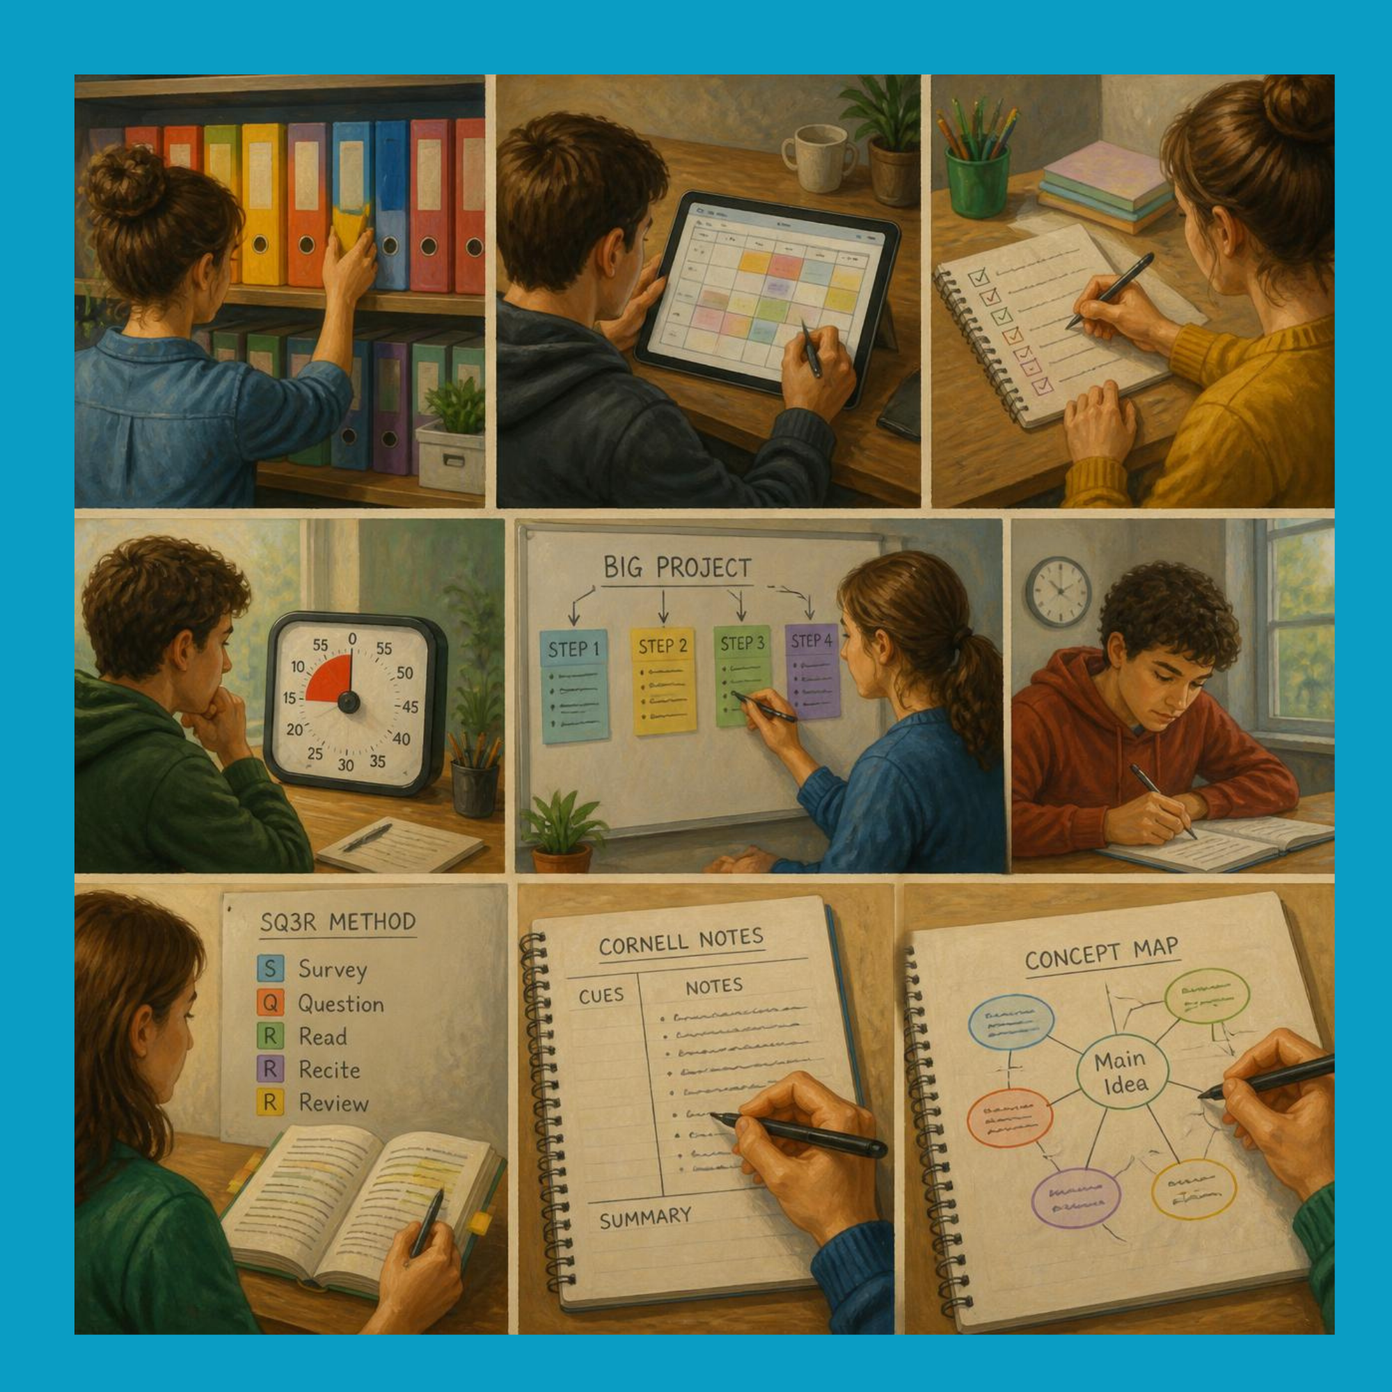
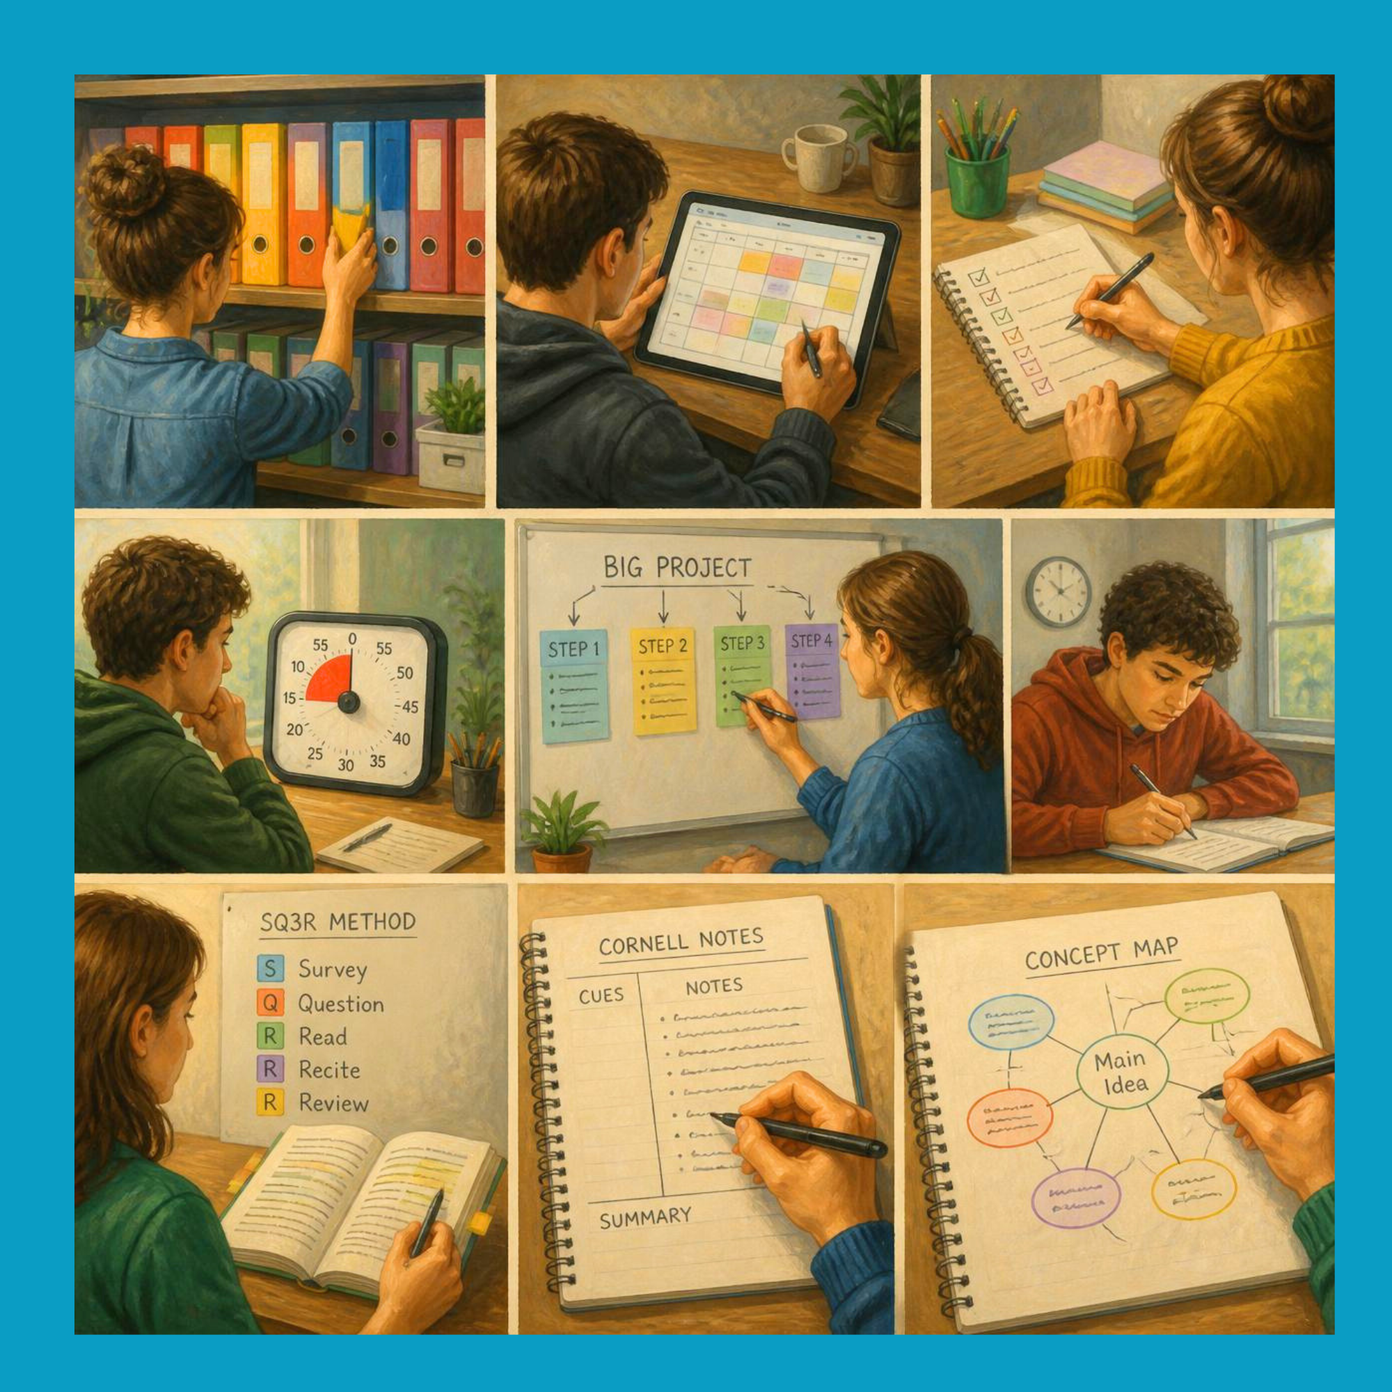
pushing dyslexia support

diff --git a/src/components/articles/dyslexia/dyslexia-support/SupportHome.tsx b/src/components/articles/dyslexia/dyslexia-support/SupportHome.tsx
@@ -1,5 +1,6 @@
 import React from 'react';
 import { Tabs, TabsContent, TabsList, TabsTrigger } from '../../../ui/tabs';
+import { ImageWithFallback } from '../../../figma/ImageWithFallback';
 
 interface SupportHomeProps {
   setCurrentArticle?: (article: string) => void;
@@ -34,7 +35,7 @@ export function SupportHome({ setCurrentArticle }: SupportHomeProps) {
 
       <Tabs defaultValue="home" className="w-full">
 
- <TabsList className="grid w-full grid-cols-1 sm:grid-cols-2 md:grid-cols-3 lg:grid-cols-4 gap-3 mb-12 bg-transparent h-auto p-0">
+        <TabsList className="grid w-full grid-cols-1 sm:grid-cols-2 md:grid-cols-3 lg:grid-cols-4 gap-3 mb-12 bg-transparent h-auto p-0">
           <TabsTrigger 
             value="interventions" 
             onClick={() => setCurrentArticle?.('dyslexia-support-interventions')} 
@@ -87,24 +88,93 @@ export function SupportHome({ setCurrentArticle }: SupportHomeProps) {
         </TabsList>
 
         <TabsContent value="home" className="animate-fadeIn">
-          <h3 className="text-xl font-bold mb-4 text-[#0c264d]">Creating a Supportive Environment</h3>
-          <ul className="list-disc ml-5 space-y-2 mb-6 text-slate-700">
-            <li>Designated quiet homework space.</li>
-            <li>Consistent routine and schedule.<sup className="text-green-600 font-bold ml-0.5">1</sup></li>
-          </ul>
+          
+          {/* Centered Intro Section */}
+          <div className="clear-both">
+            <h2 className="text-[#0c264d] font-bold mb-4 text-2xl clear-both text-center">
+              Home Support Strategies
+            </h2>
+            <ImageWithFallback 
+              src="/images/dyslexia/dyslexia-support-home-TAB-intro.png"
+              alt="Home support strategies for dyslexia"
+              className="w-64 h-auto rounded-md border border-gray-300 block mx-auto mb-6 shadow-sm"
+            />
+            <p className="mb-8 text-slate-700 leading-relaxed text-center max-w-3xl mx-auto">
+              Supporting an individual with dyslexia extends far beyond the classroom. Creating a nurturing, structured, and literacy-rich home environment is crucial for building their confidence and reinforcing the skills they learn at school.
+            </p>
+          </div>
 
-          <h3 className="text-xl font-bold mb-4 text-[#0c264d]">Reading at Home</h3>
-          <ul className="list-disc ml-5 space-y-2 mb-6 text-slate-700">
-            <li>Read aloud together.<sup className="text-green-600 font-bold ml-0.5">2</sup></li>
-            <li>High-interest materials.<sup className="text-green-600 font-bold ml-0.5">3</sup></li>
-            <li>Audiobooks count!<sup className="text-green-600 font-bold ml-0.5">4</sup></li>
-          </ul>
+          {/* Supportive Environment (Float Right) */}
+          <h3 className="text-2xl font-bold mt-2 mb-4 text-[#0c264d] border-b border-gray-200 pb-2 clear-both">Creating a Supportive Environment</h3>
+          
+          <ImageWithFallback 
+            src="/images/dyslexia/dyslexia-support-home-TAB-environment.png"
+            alt="Creating a structured homework space"
+            className="w-56 h-auto rounded-md border border-gray-300 shadow-sm float-right ml-6 mb-4"
+          />
 
-          <h3 className="text-xl font-bold mb-4 text-[#0c264d]">School Communication</h3>
-          <ul className="list-disc ml-5 space-y-2 mb-8 text-slate-700">
-            <li>Regular teacher check-ins.<sup className="text-green-600 font-bold ml-0.5">5</sup></li>
-            <li>Prepare for IEP/504 meetings.<sup className="text-green-600 font-bold ml-0.5">6</sup></li>
-          </ul>
+          <div className="space-y-4 mb-10">
+            <div className="bg-gray-50 p-4 rounded-lg border border-gray-200 flex flex-col md:flex-row md:items-center gap-2 md:gap-6">
+              <div className="font-bold text-[#0A9DC4] md:w-1/4">Dedicated Workspace</div>
+              <div className="text-sm text-slate-700 md:w-3/4">Designate a specific, quiet, and well-lit area for homework that is free from high-traffic household distractions.</div>
+            </div>
+            
+            <div className="bg-gray-50 p-4 rounded-lg border border-gray-200 flex flex-col md:flex-row md:items-center gap-2 md:gap-6">
+              <div className="font-bold text-[#0A9DC4] md:w-1/4">Consistent Routines</div>
+              <div className="text-sm text-slate-700 md:w-3/4">Establish predictable daily schedules. Knowing exactly when homework time begins and ends helps reduce anxiety and task avoidance.</div>
+            </div>
+          </div>
+
+          {/* Reading at Home (Big Full Pic) */}
+          <h3 className="text-2xl font-bold mt-8 mb-6 text-[#0c264d] border-b border-gray-200 pb-2 clear-both">Reading at Home</h3>
+          
+          <ImageWithFallback 
+            src="/images/dyslexia/dyslexia-support-home-TAB-reading.png"
+            alt="Strategies for reading at home"
+            className="block mx-auto w-full max-w-2xl mb-8 rounded-lg shadow-sm border border-slate-200 bg-white"
+          />
+
+          <div className="grid grid-cols-1 sm:grid-cols-3 gap-6 mb-10">
+            <div className="bg-white p-5 rounded-xl border-t-4 border-[#2abcd4] shadow-sm flex flex-col">
+              <h4 className="font-bold text-[#0c264d] mb-2 text-center">Read Aloud Together</h4>
+              <p className="text-sm text-slate-700 flex-grow">Modeling fluent, expressive reading helps build vocabulary and comprehension without the cognitive strain of decoding.</p>
+            </div>
+            <div className="bg-white p-5 rounded-xl border-t-4 border-[#2abcd4] shadow-sm flex flex-col">
+              <h4 className="font-bold text-[#0c264d] mb-2 text-center">High-Interest Materials</h4>
+              <p className="text-sm text-slate-700 flex-grow">Allow reading choices based on passion—comic books, graphic novels, and magazines are all valid and engaging materials.</p>
+            </div>
+            <div className="bg-white p-5 rounded-xl border-t-4 border-[#2abcd4] shadow-sm flex flex-col">
+              <h4 className="font-bold text-[#0c264d] mb-2 text-center">Audiobooks Count</h4>
+              <p className="text-sm text-slate-700 flex-grow">Listening to audiobooks provides access to complex narratives and advanced vocabulary that may be above their independent reading level.</p>
+            </div>
+          </div>
+
+          {/* School Communication (Cards) */}
+          <h3 className="text-2xl font-bold mt-8 mb-6 text-[#0c264d] border-b border-gray-200 pb-2 clear-both">School Communication</h3>
+          
+          <div className="grid grid-cols-1 md:grid-cols-2 gap-6 mb-10">
+            {/* Check-ins Card */}
+            <div className="bg-gray-300 border-t-4 border-[#0A9DC4] rounded-xl p-6 shadow-md flex flex-col">
+              <h4 className="font-bold text-[#0c264d] text-xl mb-3 text-center">Teacher Check-ins</h4>
+              <div className="bg-white p-4 rounded-lg shadow-sm text-sm text-slate-700 flex-grow">
+                Maintain open, regular communication with teachers. Share what is working at home and ask for specific updates on classroom progress to ensure strategies are aligned.
+              </div>
+            </div>
+
+            {/* IEP/504 Card */}
+            <div className="bg-gray-300 border-t-4 border-[#2abcd4] rounded-xl p-6 shadow-md flex flex-col">
+              <h4 className="font-bold text-[#0c264d] text-xl mb-3 text-center">IEP & 504 Advocacy</h4>
+              <div className="bg-white p-4 rounded-lg shadow-sm text-sm text-slate-700 flex-grow">
+                Prepare thoroughly for school meetings. Keep an organized binder of all evaluations, work samples, and formal communications to effectively advocate for necessary accommodations.
+              </div>
+            </div>
+          </div>
+                  
+                    <ImageWithFallback 
+                      src="/images/dyslexia/dyslexia-support-home-TAB-school.png"
+                      alt="Timeline and intensity of dyslexia intervention"
+                      className="block mx-auto w-full max-w-2xl mb-8 rounded-lg shadow-sm border border-slate-200 bg-white"
+                    />
 
           <div className="flex justify-end my-8 clear-both">
             <button 
@@ -122,17 +192,13 @@ export function SupportHome({ setCurrentArticle }: SupportHomeProps) {
           <div className="bg-white bg-opacity-50 p-6 rounded-lg shadow-inner">
             <h3 className="font-bold font-spartan mb-5 text-xl text-[#0c264d]">References</h3>
             
+            {/* Empty Cited Studies Section left as a structural placeholder per standard */}
             <div className="mb-6">
               <h4 className="font-bold text-sm uppercase tracking-wider text-green-700 mb-3 border-b border-green-700 border-opacity-10 pb-1">
                 Cited Studies & Statistics
               </h4>
-              <div className="text-xs space-y-3 text-slate-600 leading-relaxed" style={{ textIndent: 0 }}>
-                <p>1. Cooper, H., et al. (2006). "Does homework improve academic achievement?" <em>Review of Educational Research</em>, 76(1), 1-62.</p>
-                <p>2. Bus, A. G., et al. (1995). "Joint book reading makes for success in learning to read." <em>Review of Educational Research</em>, 65(1), 1-21.</p>
-                <p>3. Guthrie, J. T., & Humenick, N. M. (2004). "Motivating students to read." In <em>The voice of evidence in reading research</em>. Paul H. Brookes.</p>
-                <p>4. Aronson, A. G. (2010). "New perspectives on reading intervention through audiobook technology." <em>Reading Psychology</em>, 31(4), 315-338.</p>
-                <p>5. Epstein, J. L., & Van Voorhis, F. L. (2001). "More than minutes." <em>Educational Psychologist</em>, 36(3), 181-193.</p>
-                <p>6. Garriott, P. P., et al. (2000). "Teachers as parents, parents as children." <em>Preventing School Failure</em>, 45(1), 37-43.</p>
+              <div className="text-xs space-y-3 text-slate-600 leading-relaxed italic" style={{ textIndent: 0 }}>
+                <p>No explicit statistical claims or empirical studies directly cited in the text of this section.</p>
               </div>
             </div>
 
@@ -141,7 +207,13 @@ export function SupportHome({ setCurrentArticle }: SupportHomeProps) {
                 Background Sources
               </h4>
               <ul className="list-none text-xs space-y-3 text-slate-600 leading-relaxed p-0 m-0" style={{ textIndent: 0 }}>
-                <li>Epstein, J. L. (2001). <em>School, family, and community partnerships</em>. Westview Press.</li>
+                <li>Aronson, A. G. (2010). "New perspectives on reading intervention through audiobook technology." <em>Reading Psychology</em>. https://doi.org/10.1080/02702711.2010.505166</li>
+                <li>Bus, A. G., van Ijzendoorn, M. H., & Pellegrini, A. D. (1995). "Joint book reading makes for success in learning to read: A meta-analysis on intergenerational transmission of literacy." <em>Review of Educational Research</em>. https://doi.org/10.3102/00346543065001001</li>
+                <li>Cooper, H., Robinson, J. C., & Patall, E. A. (2006). "Does homework improve academic achievement? A synthesis of research, 1987–2003." <em>Review of Educational Research</em>. https://doi.org/10.3102/00346543076001001</li>
+                <li>Epstein, J. L. (2001). <em>School, family, and community partnerships: Preparing educators and improving schools</em>. Westview Press.</li>
+                <li>Epstein, J. L., & Van Voorhis, F. L. (2001). "More than minutes: Teachers' roles in designing homework." <em>Educational Psychologist</em>. https://doi.org/10.1207/S15326985EP3603_4</li>
+                <li>Garriott, P. P., Wandry, D., & Snyder, L. (2000). "Teachers as parents, parents as children: What's wrong with this picture?" <em>Preventing School Failure</em>. https://doi.org/10.1080/10459880009599806</li>
+                <li>Guthrie, J. T., & Humenick, N. M. (2004). "Motivating students to read: Evidence for classroom practices that increase reading motivation and achievement." In <em>The voice of evidence in reading research</em>. Paul H. Brookes.</li>
               </ul>
             </div>
           </div>

diff --git a/src/components/articles/dyslexia/dyslexia-support/SupportExecutive.tsx b/src/components/articles/dyslexia/dyslexia-support/SupportExecutive.tsx
@@ -85,45 +85,70 @@ export function SupportExecutive({ setCurrentArticle }: SupportExecutiveProps) {
             Home Support
           </TabsTrigger>
         </TabsList>
-                  <h3 className="text-2xl font-bold mt-8 mb-4 text-[#0c264d] border-b border-gray-200 pb-2 clear-both text-center">How to Support Executive Dysfunction</h3>
-                  
-                  <ImageWithFallback 
-                    src="/images/dyslexia/dyslexia-support-execdys-TAB-tools.png"
-                    alt="Timeline and intensity of dyslexia intervention"
-                    className="block mx-auto w-full max-w-2xl mb-8 rounded-lg shadow-sm border border-slate-200 bg-white"
-                  />
-        <TabsContent value="executive" className="animate-fadeIn">
-          <p className="mb-6 text-slate-700 leading-relaxed">
-            Many individuals with dyslexia also experience executive function challenges:<sup className="text-green-600 font-bold ml-0.5">1</sup>
+        <TabsContent value="executive">
+    <h3 className="text-2xl font-bold mt-8 mb-6 text-[#0c264d] border-b border-gray-200 pb-2 clear-both text-center">
+            How to Support Executive Dysfunction
+          </h3>
+          
+          <ImageWithFallback 
+            src="/images/dyslexia/dyslexia-support-execdys-TAB-tools.png"
+            alt="Executive dysfunction support tools"
+            className="block mx-auto w-full max-w-2xl mb-10 rounded-lg shadow-sm border border-slate-200 bg-white"
+          />
+
+          <p className="mb-8 text-slate-700 leading-relaxed text-center max-w-3xl mx-auto">
+            Many individuals with dyslexia also experience co-occurring executive function challenges. Supporting these foundational skills is just as vital as providing direct reading intervention.
           </p>
 
-          <div className="grid grid-cols-1 md:grid-cols-3 gap-6 mb-8">
-            <div className="bg-gray-50 p-4 rounded-lg border">
-              <h4 className="font-bold text-[#0c264d] mb-2">Organization</h4>
-              <ul className="text-sm list-disc ml-5 space-y-1 text-slate-700">
-                <li>Color-coded folders/binders.<sup className="text-green-600 font-bold ml-0.5">2</sup></li>
-                <li>Digital planners.</li>
-                <li>Checklist systems.<sup className="text-green-600 font-bold ml-0.5">3</sup></li>
-              </ul>
+          <div className="grid grid-cols-1 md:grid-cols-3 gap-6 mb-10">
+            {/* Organization Card */}
+            <div className="bg-gray-300 border-t-4 border-[#2abcd4] rounded-xl p-6 shadow-sm flex flex-col">
+              <h4 className="font-bold text-[#0c264d] text-xl mb-4 text-center">Organization</h4>
+              <div className="flex flex-col gap-3 flex-grow">
+                <div className="bg-gray-50 p-3 rounded-lg border border-gray-100 text-sm text-slate-700">
+                  <strong className="text-[#0A9DC4]">Color-Coding:</strong> Use color-coded folders and binders to quickly categorize subjects and reduce physical clutter.
+                </div>
+                <div className="bg-gray-50 p-3 rounded-lg border border-gray-100 text-sm text-slate-700">
+                  <strong className="text-[#0A9DC4]">Digital Planners:</strong> Centralize assignments and due dates using digital tools like Google Calendar or Notion.
+                </div>
+                <div className="bg-gray-50 p-3 rounded-lg border border-gray-100 text-sm text-slate-700">
+                  <strong className="text-[#0A9DC4]">Checklist Systems:</strong> Provide explicit, step-by-step visual breakdowns for routine daily tasks.
+                </div>
+              </div>
             </div>
-            <div className="bg-gray-50 p-4 rounded-lg border">
-              <h4 className="font-bold text-[#0c264d] mb-2">Time Management</h4>
-              <ul className="text-sm list-disc ml-5 space-y-1 text-slate-700">
-                <li>Visual timers.<sup className="text-green-600 font-bold ml-0.5">4</sup></li>
-                <li>Chunking large projects.</li>
-                <li>Extra time allowance.</li>
-              </ul>
+
+            {/* Time Management Card */}
+            <div className="bg-gray-300 border-t-4 border-[#2abcd4] rounded-xl p-6 shadow-sm flex flex-col">
+              <h4 className="font-bold text-[#0c264d] text-xl mb-4 text-center">Time Management</h4>
+              <div className="flex flex-col gap-3 flex-grow">
+                <div className="bg-gray-50 p-3 rounded-lg border border-gray-100 text-sm text-slate-700">
+                  <strong className="text-[#0A9DC4]">Visual Timers:</strong> Use visual clocks to make the abstract concept of passing time concrete and visible.
+                </div>
+                <div className="bg-gray-50 p-3 rounded-lg border border-gray-100 text-sm text-slate-700">
+                  <strong className="text-[#0A9DC4]">Task Chunking:</strong> Break large, overwhelming projects into smaller milestones with mini-deadlines.
+                </div>
+                <div className="bg-gray-50 p-3 rounded-lg border border-gray-100 text-sm text-slate-700">
+                  <strong className="text-[#0A9DC4]">Time Allowances:</strong> Formalize extended time for reading and testing to remove the pressure of processing speed.
+                </div>
+              </div>
             </div>
-            <div className="bg-gray-50 p-4 rounded-lg border">
-              <h4 className="font-bold text-[#0c264d] mb-2">Study Skills</h4>
-              <ul className="text-sm list-disc ml-5 space-y-1 text-slate-700">
-                <li>SQ3R method.</li>
-                <li>Cornell note-taking.</li>
-                <li>Concept maps.</li>
-              </ul>
+
+            {/* Study Skills Card */}
+            <div className="bg-gray-300 border-t-4 border-[#2abcd4] rounded-xl p-6 shadow-sm flex flex-col">
+              <h4 className="font-bold text-[#0c264d] text-xl mb-4 text-center">Study Skills</h4>
+              <div className="flex flex-col gap-3 flex-grow">
+                <div className="bg-gray-50 p-3 rounded-lg border border-gray-100 text-sm text-slate-700">
+                  <strong className="text-[#0A9DC4]">SQ3R Method:</strong> Survey, Question, Read, Recite, and Review to actively engage with the text rather than passively scanning.
+                </div>
+                <div className="bg-gray-50 p-3 rounded-lg border border-gray-100 text-sm text-slate-700">
+                  <strong className="text-[#0A9DC4]">Cornell Notes:</strong> Use structured note-taking systems that force the summarization and synthesis of key concepts.
+                </div>
+                <div className="bg-gray-50 p-3 rounded-lg border border-gray-100 text-sm text-slate-700">
+                  <strong className="text-[#0A9DC4]">Concept Maps:</strong> Leverage mind-mapping tools to visually connect ideas, bypassing heavy text-based outlining.
+                </div>
+              </div>
             </div>
           </div>
-
 
           <div className="flex justify-end my-8 clear-both">
             <button 
@@ -135,7 +160,7 @@ export function SupportExecutive({ setCurrentArticle }: SupportExecutiveProps) {
             </button>
           </div>
 
-          {/* REFERENCES SECTION */}
+{/* REFERENCES SECTION */}
           <hr className="border-t-2 border-[#0c264d] border-opacity-10 my-8 clear-both" />
           
           <div className="bg-white bg-opacity-50 p-6 rounded-lg shadow-inner">
@@ -146,10 +171,10 @@ export function SupportExecutive({ setCurrentArticle }: SupportExecutiveProps) {
                 Cited Studies & Statistics
               </h4>
               <div className="text-xs space-y-3 text-slate-600 leading-relaxed" style={{ textIndent: 0 }}>
-                <p>1. Reiter, A., Tucha, O., & Lange, K. W. (2005). "Executive functions in children with dyslexia." <em>Dyslexia</em>, 11(2), 116-131.</p>
-                <p>2. Hughes, C. A., & Suritsky, S. K. (1994). "Note-taking skills of university students with and without learning disabilities." <em>Journal of Learning Disabilities</em>, 27(1), 20-24.</p>
-                <p>3. Gureasko-Moore, S., DuPaul, G. J., & White, G. P. (2007). "Self-management of classroom preparedness and homework." <em>School Psychology Review</em>, 36(4), 647-664.</p>
-                <p>4. Barkley, R. A. (1997). "Behavioral inhibition, sustained attention, and executive functions." <em>Psychological Bulletin</em>, 121(1), 65-94.</p>
+                <p>1. Reiter, A., Tucha, O., & Lange, K. W. (2005). "Executive functions in children with dyslexia." <em>Dyslexia</em>. https://doi.org/10.1002/dys.289</p>
+                <p>2. Hughes, C. A., & Suritsky, S. K. (1994). "Note-taking skills of university students with and without learning disabilities." <em>Journal of Learning Disabilities</em>. https://doi.org/10.1177/002221949402700104</p>
+                <p>3. Gureasko-Moore, S., DuPaul, G. J., & White, G. P. (2007). "Self-management of classroom preparedness and homework." <em>School Psychology Review</em>. https://doi.org/10.1080/02796015.2007.12087923</p>
+                <p>4. Barkley, R. A. (1997). "Behavioral inhibition, sustained attention, and executive functions." <em>Psychological Bulletin</em>. https://doi.org/10.1037/0033-2909.121.1.65</p>
               </div>
             </div>
 
@@ -159,8 +184,8 @@ export function SupportExecutive({ setCurrentArticle }: SupportExecutiveProps) {
               </h4>
               <ul className="list-none text-xs space-y-3 text-slate-600 leading-relaxed p-0 m-0" style={{ textIndent: 0 }}>
                 <li>Dawson, P., & Guare, R. (2010). <em>Executive skills in children and adolescents</em>. Guilford Press.</li>
-                <li>Robinson, F. P. (1970). <em>Effective study</em>. Harper & Row.</li>
                 <li>Novak, J. D., & Gowin, D. B. (1984). <em>Learning how to learn</em>. Cambridge University Press.</li>
+                <li>Robinson, F. P. (1970). <em>Effective study</em>. Harper & Row.</li>
               </ul>
             </div>
           </div>
